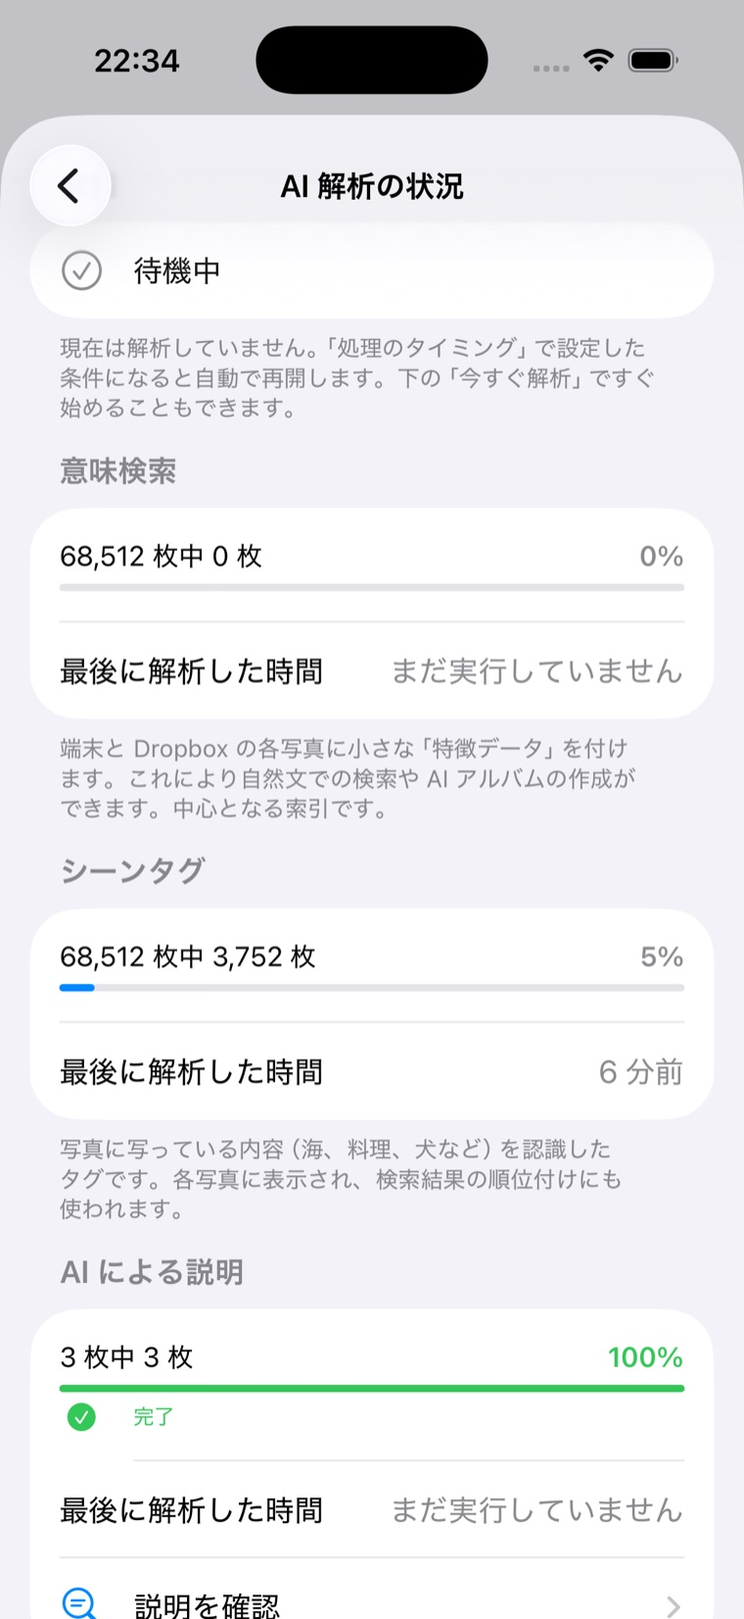
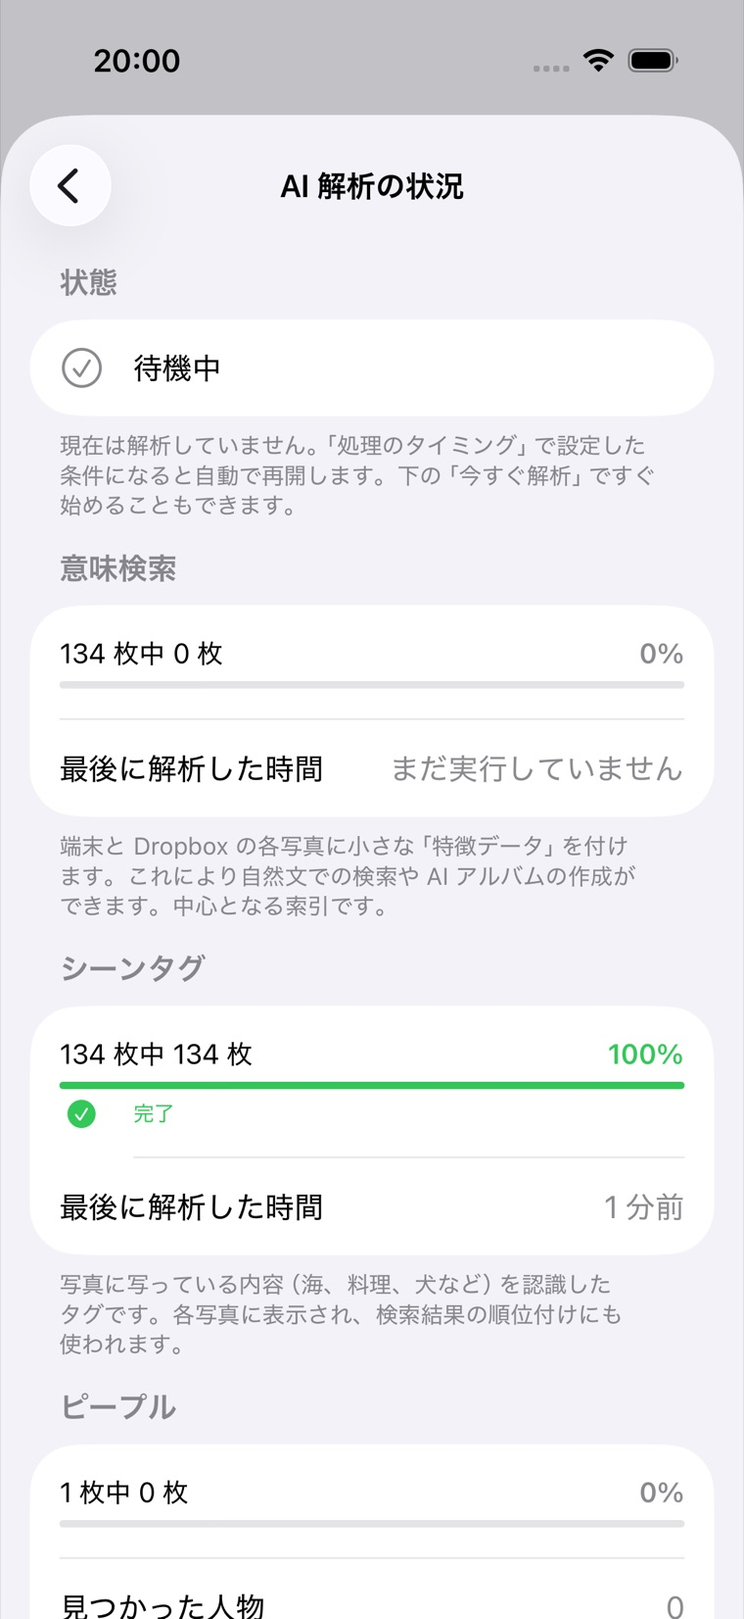
docs: マニュアル・README・リリースノート・スクリーンショットを現状へ
設計資料（6e2f542）に続いて、利用者向けの資料を ADR-199〜248 に追いつかせた。

■ マニュアル（docs/help/）

- settings.html  クラウド共有を 3 トグルへ（「写真の解析結果を共有」＝ADR-222・既定オフ・
                 1 台だけ・引き継ぎ）。Background & Battery に「充電をバックグラウンド処理より
                 優先」（既定オン）を追加
- （前コミットで people / faq / dropbox / settings の主要な欠落と誤りは修正済み）

■ README（両言語）

- ⚠ 誤りの修正: 旧 UI 名 `Run image analysis gently` → `Analyze while the app is open`、
  タイポ `analysis analysis data` → `analysis-only publishing`
- 追加: 解析結果だけの公開（ADR-222）／オフロードの緊急停止（ADR-202）／
  ピープルの表示フロア 10 枚（ADR-125）

■ リリースノート

- 1.16.md の訂正: 「この画面を開いている間、解析する」の 3 択は提出後に撤去済み（ADR-195）。
  該当文を削除し、冒頭に訂正の注記を付けた
- 1.17.md を新規作成（⚠ 原稿・未確定）。MARKETING_VERSION は 1.16 のまま触っていない
  ——バージョンを上げるかはリリース判断なので、文面だけ先に用意した

■ スクリーンショット

- ai-analysis.jpg を撮り直した。⚠ 旧画像は ADR-195/207 より前のもので、
  いまは存在しない 3 択ピッカーが写っていた
- 撮影対象に `05b-ai-analysis` を追加（それまで AI 解析の状況は撮っていなかった）
- ⚠ これで legacy（実写真入り）が 4 → 3 件に減った。状況画面は「待機中 / 意味検索 0%」の
  正直な状態がそのままヘルプに要る内容なので、解析完了は不要だった
- scripts/make_screenshot_sim.sh の不具合修正: `Index.noindex` 配下の .app を拾って
  "Missing bundle ID" で失敗していた。bundle ID が読める最初の候補を選ぶようにした

撮影は ADR-114 のパイプライン（使い捨てシミュレータ MosaicShots ＋ フリーライセンス素材 64 枚）で
行い、個人写真は 1 枚も含まれない。シミュレータは撮影後に削除済み。

検証: 全 html のタグ対応と画像参照を機械で確認（✅ 問題なし）。

diff --git a/docs/help/settings.html b/docs/help/settings.html
@@ -24,7 +24,7 @@
     <table>
       <tr><th>グループ</th><th>主な項目</th></tr>
       <tr><td>Photo Sources</td><td>端末の写真（On-Device Photos）/ Dropbox / バックアップ（Backup）</td></tr>
-      <tr><td>Albums &amp; Search（アルバムと検索）</td><td><b>AI 解析の状況</b>（進捗・今すぐ解析）/ <b>アルバム自動処理</b>（AI・旅行アルバム＋<b>AI 処理のタイミング</b>・背景処理の速度）/ <a href="./folder-albums.html">フォルダーアルバム</a> / <b>場所アルバムの設定</b> / <b>クラウド共有</b>（受け取る・提供する。→ <a href="./dropbox.html#cloud-share">くわしく</a>）</td></tr>
+      <tr><td>Albums &amp; Search（アルバムと検索）</td><td><b>AI 解析の状況</b>（進捗・今すぐ解析）/ <b>アルバム自動処理</b>（AI・旅行アルバム＋<b>AI 処理のタイミング</b>・背景処理の速度）/ <a href="./folder-albums.html">フォルダーアルバム</a> / <b>場所アルバムの設定</b> / <b>クラウド共有</b>（受け取る・提供する・<b>解析結果を公開する</b>。→ <a href="./dropbox.html#cloud-share">くわしく</a>）</td></tr>
       <tr><td>General</td><td>バージョン / 言語 / Background &amp; Battery / Photo Grid / Storage / Licenses / ヘルプ</td></tr>
       <tr><td>Developer Options</td><td>開発者向けの詳細診断（通常は不要）</td></tr>
     </table>
@@ -77,6 +77,7 @@
       <tr><td><b>アプリを開いている間も解析する</b></td><td>同上</td><td>オン / オフ</td><td><b>オン</b></td></tr>
       <tr><td>Power（電源）</td><td>設定 → 一般 → Background &amp; Battery</td><td>充電中のみ / 常に / オフ</td><td>充電中のみ</td></tr>
       <tr><td>Network（通信）</td><td>同上</td><td>Wi-Fi のみ / モバイル通信も / Wi-Fi（低データ除く）/ オフ</td><td>Wi-Fi のみ</td></tr>
+      <tr><td>充電をバックグラウンド処理より優先</td><td>同上</td><td>オン / オフ</td><td>オン</td></tr>
     </table>
 
     <h3>「アプリを開いている間も解析する」とは</h3>
@@ -143,6 +144,8 @@
     <ul>
       <li><b>Power（電源）</b>：<b>充電中のみ</b>（既定）/ 常に / オフ。「充電中のみ」は低電力モードが切れているときだけ動きます。</li>
       <li><b>Network（通信）</b>：モバイル通信も許可 / <b>Wi-Fi のみ</b>（既定）/ Wi-Fi（低データモードは除く）/ オフ。</li>
+      <li><b>充電をバックグラウンド処理より優先</b>（既定オン）：端末が熱いときは背景の処理を止めて、
+        <b>充電を優先</b>します。充電が遅いと感じるときはオンのまま、解析を急ぎたいときはオフにできます。</li>
     </ul>
     <div class="tip">いま<b>見ている・開いている写真は常に取得</b>されます（サムネイルの先読みを含む）。
       制限されるのは“自動の裏側の通信・処理”だけなので、閲覧が止まることはありません。</div>
@@ -166,8 +169,19 @@
 
     <h2>クラウド共有</h2>
     <p><b>設定 → アルバムと検索 → クラウド共有</b>（<b>設定 → Dropbox</b> からも同じ画面へ行けます）。
-      家族などと写真を分け合う機能で、<b>「受け取る」</b>と<b>「提供する」</b>はそれぞれ独立したトグルです
-      （バックアップとも独立しています）。くわしくは <a href="./dropbox.html#cloud-share">クラウド共有</a>。</p>
+      <b>3 つのトグルがそれぞれ独立</b>しています（バックアップとも独立）。
+      くわしくは <a href="./dropbox.html#cloud-share">クラウド共有</a>。</p>
+    <ul>
+      <li><b>共有アルバムを受け取る</b> — 相手が共有してくれたフォルダを登録します。</li>
+      <li><b>自分の写真を共有する</b> — アルバム・人物・ピープルグループから共有セットを作ります。
+        <b>「人物名も共有する」</b>を併せて選べます。</li>
+      <li><b>写真の解析結果を共有</b>（⚠ <b>既定オフ</b>）— 同じ Dropbox を使う<b>別の端末</b>へ、
+        写真をコピーせず<b>解析結果だけ</b>を公開します。共有フォルダの登録は要りません。
+        <b>「今すぐ公開」</b>で待たずに出せます。
+        <br>⚠ <b>オンにするのは 1 台だけ</b>にしてください（2 台だと同じものに二重の容量がかかります）。
+        別の端末が公開中なら警告と端末名が出て、<b>「この端末で公開する」</b>で引き継げます。</li>
+    </ul>
+    <p>受け取り側には <b>「共有された解析を今すぐ取り込む」</b>もあります。</p>
 
     <h2>その他</h2>
     <ul>

diff --git a/MosaicPhotosUITests/ScreenshotCaptureTests.swift b/MosaicPhotosUITests/ScreenshotCaptureTests.swift
@@ -94,6 +94,20 @@ final class ScreenshotCaptureTests: XCTestCase {
         if tapFirst(["設定", "Settings"], timeout: 5) {
             sleep(4)
             capture("05-settings")
+            // 4-b. AI 解析の状況（ADR-207 以降・トグル 2 つ＋残りの内訳）。
+            // ⚠ help/ai-search.html が参照する画面。3 択ピッカーの頃の画像が残っていたので
+            //    撮影対象に足した（それまでは撮っていなかった）。
+            if tapFirst(["アルバムと検索", "Albums & Search"], timeout: 4) {
+                sleep(2)
+                if tapFirst(["AI 解析の状況", "AI Analysis Status"], timeout: 4) {
+                    sleep(4)
+                    capture("05b-ai-analysis")
+                    tapFirst(["Back", "戻る"], timeout: 3)
+                    sleep(1)
+                }
+                tapFirst(["Back", "戻る"], timeout: 3)
+                sleep(1)
+            }
             // シートを閉じる（左上の戻る）。
             tapFirst(["Back", "戻る"], timeout: 3)
             sleep(2)

diff --git a/README.ja.md b/README.ja.md
@@ -88,7 +88,7 @@
 
 - **すべての写真** — 端末と Dropbox の写真を 1 本の時系列タイムラインに統合。
 - **どこでもフィルター** — すべてのグリッド（ソース・アルバム・ピープル・場所・AI アルバム）の下部バーにフィルターボタン。**お気に入りのみ**、混在ビューでは**端末のみ／クラウドのみ**にも絞れます。全画面のスワイプ送りも絞り込み後の並びで進みます。
-- **ピープル** — 顔の検出とクラスタリングは**完全オンデバイス**：Vision 顔検出＋同梱顔モデル（**AuraFace-v1**・Apache 2.0・ArcFace 系 ResNet100・512 次元の identity 埋め込み・5 点整列）で「人物」を自動生成します（iOS に公開のピープル API は無いため独自実装・通信なし）。**端末と Dropbox の両方**が対象です（クラウドはキャッシュ済みサムネイルから検出＝追加ダウンロードなし）。認識精度は**データセット計測で調整**しており（`docs/architecture-note/records/face-accuracy.md`）、ぼやけ・横顔・暗所・小さすぎる顔・顔でないものを弾く多段ゲート、目の位置を揃えるアライメント、複数クロップ平均、紛らわしい顔を吸い込まないマージン制御で、別人が混ざる率を大きく下げています。ホームの丸アイコンから、タップで写真一覧（端末＋クラウド）、長押しで名前変更・代表写真・顔の管理・**別の人物と束ねる**。人物アルバムの**顔ハイライト**（下部バーの顔ボタン）で、認識した顔をサムネ・全画面に黄枠表示——複数人の写真でもどの顔かが分かります。**同じ人が複数に分かれたとき**（特に**成長した子供**）は 2 つ以上のグループを **1 人として束ねられます**（各グループの純度は保ったまま・撮影日で時期をまとめるので年齢推定は不要・後で解除可）。名前を付けた人物は AI アルバムの人物条件に接地します——「太郎と花子」で山田太郎・山田花子がヒットし、照合は**現在の人物でライブ評価**なので改名・束ねも即反映。顔モデル未同梱の構成ではセクション非表示。さらに、**複数の人物を家族名やチーム名で束ねる『ピープルグループ』**も作れます（別人どうしをまとめる表示上のまとまりで、顔の認識結果自体は変わりません。カルーセル先頭に 2×2 の顔コラージュカードで表示され、タップで全員の写真、長押しで編集・クラウド共有）。
+- **ピープル** — 顔の検出とクラスタリングは**完全オンデバイス**：Vision 顔検出＋同梱顔モデル（**AuraFace-v1**・Apache 2.0・ArcFace 系 ResNet100・512 次元の identity 埋め込み・5 点整列）で「人物」を自動生成します（iOS に公開のピープル API は無いため独自実装・通信なし）。**端末と Dropbox の両方**が対象です（クラウドはキャッシュ済みサムネイルから検出＝追加ダウンロードなし）。認識精度は**データセット計測で調整**しており（`docs/architecture-note/records/face-accuracy.md`）、ぼやけ・横顔・暗所・小さすぎる顔・顔でないものを弾く多段ゲート、目の位置を揃えるアライメント、複数クロップ平均、紛らわしい顔を吸い込まないマージン制御で、別人が混ざる率を大きく下げています。ホームの丸アイコンから、タップで写真一覧（端末＋クラウド）、長押しで名前変更・代表写真・顔の管理・**別の人物と束ねる**。人物アルバムの**顔ハイライト**（下部バーの顔ボタン）で、認識した顔をサムネ・全画面に黄枠表示——複数人の写真でもどの顔かが分かります。**同じ人が複数に分かれたとき**（特に**成長した子供**）は 2 つ以上のグループを **1 人として束ねられます**（各グループの純度は保ったまま・撮影日で時期をまとめるので年齢推定は不要・後で解除可）。名前を付けた人物は AI アルバムの人物条件に接地します——「太郎と花子」で山田太郎・山田花子がヒットし、照合は**現在の人物でライブ評価**なので改名・束ねも即反映。顔モデル未同梱の構成ではセクション非表示。⚠ 自動で一覧に出るのは**10 枚以上に写っている人**だけです（写り込んだだけの人でカルーセルが埋まらないように）。**名前を付けた人は枚数に関係なく必ず出ます**し、「すべて表示」の右上から最小枚数を 3 / 5 / 10 / 20 枚に変えられます。さらに、**複数の人物を家族名やチーム名で束ねる『ピープルグループ』**も作れます（別人どうしをまとめる表示上のまとまりで、顔の認識結果自体は変わりません。カルーセル先頭に 2×2 の顔コラージュカードで表示され、タップで全員の写真、長押しで編集・クラウド共有）。
 - **旅行** — 撮影日時と位置から旅行を自動検出（複数日・複数都市の旅行は 1 つのアルバムに）。タイトルとカバーも自動。
 - **AI アルバム & 意味検索** — 自然文・**任意の言語**でアルバムを記述（例:「走っている子供」「京都か奈良の家族のお気に入り、スクショ除く」）。作成画面が入力を支援：ライブラリ由来の**サジェストチップ**（命名済み人物・頻出の場所・よく写るもの・日付の定型＝すべて確実にヒットする語）、入力の**接地プレビュー**（人物／場所／視覚語／日付にどう解釈されたかを色付きチップで表示）、ハード条件の**ヒット件数**のライブ表示。作成は **2 段階**：決定的**プレビュー**が 1〜2 秒で出て、そのまま**その場で本確定**（十数秒）——オンデバイス LLM（Apple Foundation Models）が**一度だけ**解釈して永続化し、**言い換えプローブ**（max-over-probes 採点で言い回しの取りこぼしを回収）を生成、**閾値レスの多層パイプライン**（校正済み**シーンタグ**一致＋**CLIP 対比**＋字句一致の RRF 融合 → **証拠ゲート** → **LLM 審査**・多数決）で照合します。「バレエの◯◯」のような人物×内容の複合は厳密な AND（ハード条件に接地済みの名前は内容照合から除外）。「人が写っていない」のような除外は**顔検出の実測**とタグ・CLIP を併用。**端末と Dropbox の両方**が対象。検索品質は**データセット計測**で決めます——COCO/Caltech の 123 クエリハーネス＋カテゴリ別回帰フロア（`docs/architecture-note/records/search-quality.md`）。
 - **オンデバイス画像理解** — 写真は背景で**新しいものから先に**、2 パスで索引付けされます：**シーンタグ**（OS 内蔵 Vision・約 1,300 クラス・精度校正済み）と **CLIP 埋め込み**（OpenCLIP ViT-B-32・**INT8 量子化＝精度そのまま半分のサイズ**）を**全写真**へ。（VLM 説明文は 1.15 で廃止——網羅率アブレーションで検索寄与ゼロを計測し、最重量パスとモデル 877MB を削減。ADR-108）進捗は**設定 → AI 解析の状況**で確認できます（パス別進捗・最終実行時刻・「今すぐ解析」）。重い処理は既定で**充電中・Wi-Fi・非使用時（ロック中含む・BGProcessingTask）**のみ実行されます（下記の 4 軸設定）。外部 API なし・通信なし（OCR も OS 内蔵 Vision で端末内実行）。
@@ -96,8 +96,9 @@
 - **クラウド** — Dropbox の写真閲覧。差分同期で常に最新、サムネイル（256px）と本体はローカルにキャッシュ。
 - **アルバム** — 端末のユーザー作成アルバム（独立にスキャン・キャッシュ）。
 - **場所** — **オンデバイス逆ジオコーディング**で市区町村ごとにグループ化。端末と Dropbox の位置情報つき写真を統合し、位置データが増えるほど自動で育ちます。
-- **バックアップ — 検証つき・自動・家族共有対応** — 端末写真を Dropbox へ**内容ハッシュ検証つき**でバックアップ：アップロード後に Dropbox 側のバイト列一致を確認できたものだけ「済み」になります（同名衝突も同じ仕組みで検出し自動リネーム）。AI 索引と同じ**夜間ウィンドウ（充電＋Wi-Fi＋未使用時）に自動実行**され、設定に**「バックアップ済み X / Y」**、全画面表示に写真ごとのバッジを表示。保存先は**端末ごとのサブフォルダ**（例 `iPhone-3F2A8C`）なので、家族で 1 つの Dropbox を共有しても衝突しません。アルバム所属・お気に入り・人物名・GPS・localIdentifier（ローカル⇔クラウド対応表）も写真とともに保全——再インストールや将来の**オフロード**（端末容量の解放。検証つきのドライランプレビュー画面を先行搭載）に備えます。
+- **バックアップ — 検証つき・自動・家族共有対応** — 端末写真を Dropbox へ**内容ハッシュ検証つき**でバックアップ：アップロード後に Dropbox 側のバイト列一致を確認できたものだけ「済み」になります（同名衝突も同じ仕組みで検出し自動リネーム）。AI 索引と同じ**夜間ウィンドウ（充電＋Wi-Fi＋未使用時）に自動実行**され、設定に**「バックアップ済み X / Y」**、全画面表示に写真ごとのバッジを表示。保存先は**端末ごとのサブフォルダ**（例 `iPhone-3F2A8C`）なので、家族で 1 つの Dropbox を共有しても衝突しません。アルバム所属・お気に入り・人物名・GPS・localIdentifier（ローカル⇔クラウド対応表）も写真とともに保全——再インストールや将来の**オフロード**（端末容量の解放。検証つきのドライランプレビュー画面を先行搭載）に備えます。⚠ **唯一のコピーが失われたら、止めてから知らせます**：オフロード済みの写真が Dropbox 上で見つからなくなったら自動オフロードを停止し、写真一覧の上に赤い帯を出し、影響を受けたファイルを確認するまで設定を変更できないようにします（確認しても**自動では再開しません**）。
 - **クラウド共有 — 選んだ写真だけを、解析ごと分け合う** — アルバム・人物・ピープルグループの「…」から**クラウド共有**でセットを作ると、選んだ写真が Dropbox の共有フォルダへ**サーバー上でコピー**されます（写真データの再アップロードは発生せず、**原本とバックアップには一切触れません**）。相手が MosaicPhotos を使っていれば、**AI 解析（シーンタグ・CLIP 埋め込み・顔）も一緒に届く**ので、受け取った端末で解析し直す必要がありません——共有された子供の写真が、相手の端末の命名済み人物アルバムへ自動で合流します（結合キーは端末に依存しない `content_hash`）。**「受け取る」「提供する」「バックアップ」は独立した設定**で、受け取るだけなら Dropbox 接続だけで動きます（端末写真の提供のみバックアップが前提）。共有フォルダを誰に見せるかは Dropbox 側の操作（閲覧のみ招待を推奨）。
+- **解析結果だけを公開 — 写真は 1 枚もコピーしない** — 家族で**同じ Dropbox アカウント**を使っているなら、写真はすでに全員が見えています。足りないのは解析だけなので、**設定 → アルバムと検索 → クラウド共有 → 「写真の解析結果を共有」**（⚠ **既定オフ**）をオンにすると、この端末が**解析結果だけ**（シーンタグ・検索の索引・顔・人物名）を `<root>/<端末>/Analysis/` へ置きます。**写真は 1 枚もコピーされず**、受け取る側は共有フォルダの登録も不要で、同じライブラリを二度と解析し直しません。⚠ **オンにするのは 1 台だけ**（2 台だと同じものに二重の容量がかかります）。別の端末が公開中なら端末名と最終公開日時を見せ、**引き継ぎ**を促します。
 
 - **バックグラウンド・電池・通信** — 2 つの独立した設定で電池と通信量を管理します。
   - **処理のタイミング**（設定 → アルバムと検索 → アルバム自動処理）：重い AI 処理（シーンタグ・CLIP 埋め込み・顔スキャン・アルバム生成）を動かす条件。段階（梯子）ではなく**独立した設定の組み合わせ**で、「自動で解析する」（オン/オフ）と、Background & Battery の電源・通信。アプリを閉じている間（ロック中）に進むほか、**アプリを開いたままでも 20 秒触らなければ進み**、触れば即譲ります（設定不要）。処理の**速さ**は別に 4 段階（とても控えめ／控えめ〈既定〉／バランス／高速）。低電力モード・メモリ逼迫時は常に停止します。
@@ -122,7 +123,7 @@ MosaicPhotos (app)
 ├── DropboxKit        Dropbox の UI 層（DropboxCore に依存）
 ├── BackupKit         端末→Dropbox バックアップ：検証つきアップロード（content hash）・夜間自動・
 │                     端末別フォルダ・オフロード台帳＋プレビュー／
-│                     クラウド共有（共有セット・サーバーサイドコピー・解析データ）
+│                     クラウド共有（共有セット・サーバーサイドコピー・解析結果だけの公開）
 ├── PhotosFeatureKit  ローカル＋Dropbox の統合（MergedPhotoStore）と場所グルーピング
 ├── FaceCore          顔認識・ピープル（検出ゲート・クラスタリング・ピープルグループ）
 ├── AutoAlbumCore     自動アルバム＋オンデバイス AI ロジック（SwiftUI 非依存）：旅行・フォルダ名アルバム・

diff --git a/README.md b/README.md
@@ -88,7 +88,7 @@
 
 - **All Photos** — Your device and Dropbox photos merged into one chronological timeline.
 - **Filters everywhere** — Every grid (sources, albums, People, Places, AI albums) has a filter button in the bottom bar: show **favorites only**, and on mixed views restrict to **device-only or cloud-only** photos. Full-screen swiping follows the filtered set.
-- **People** — Faces are detected and clustered **entirely on device**: Vision face detection plus a bundled face model (**AuraFace-v1**, Apache 2.0, ArcFace-family ResNet100, 512-dim identity embeddings, 5-point alignment) groups faces into people — iOS exposes no public “People” API, so the clusters are the app's own, built with no network access. Covers **both device and Dropbox photos** (cloud faces are detected from cached thumbnails — no extra downloads). Accuracy is tuned against labelled datasets (`docs/architecture-note/records/face-accuracy.md`): multi-stage gates reject blurry, profile, dark, too-small and non-face crops; eye-alignment and multi-crop averaging stabilize embeddings; margin control avoids pulling in ambiguous faces — sharply lowering how often different people mix. Home shows a circular-avatar carousel: tap a person to browse their photos (device + cloud), long-press to rename, choose a cover, fix mis-assigned faces, or **group people together**. A **face-highlight** toggle in the person album's bottom bar draws a yellow box around the recognized faces (in thumbnails and full screen) so you can tell which face is which in group shots. When the same person gets split into several groups — common for a **growing child** — you can **group them into one person** (each group keeps its purity; periods are separated by capture date so no age estimation is needed; reversible later). Named people ground people conditions in AI albums — “Taro and Hanako” finds 山田太郎 and 山田花子, evaluated live so renames and grouping apply immediately. The section is hidden when the face model isn't bundled. You can also bundle several people into a **people group** (a family, a team) — a display-level grouping of *different* people (it never changes the face clustering itself), shown as a 2×2 face collage card at the head of the carousel; tap for everyone's photos, long-press to edit or cloud-share.
+- **People** — Faces are detected and clustered **entirely on device**: Vision face detection plus a bundled face model (**AuraFace-v1**, Apache 2.0, ArcFace-family ResNet100, 512-dim identity embeddings, 5-point alignment) groups faces into people — iOS exposes no public “People” API, so the clusters are the app's own, built with no network access. Covers **both device and Dropbox photos** (cloud faces are detected from cached thumbnails — no extra downloads). Accuracy is tuned against labelled datasets (`docs/architecture-note/records/face-accuracy.md`): multi-stage gates reject blurry, profile, dark, too-small and non-face crops; eye-alignment and multi-crop averaging stabilize embeddings; margin control avoids pulling in ambiguous faces — sharply lowering how often different people mix. Home shows a circular-avatar carousel: tap a person to browse their photos (device + cloud), long-press to rename, choose a cover, fix mis-assigned faces, or **group people together**. A **face-highlight** toggle in the person album's bottom bar draws a yellow box around the recognized faces (in thumbnails and full screen) so you can tell which face is which in group shots. When the same person gets split into several groups — common for a **growing child** — you can **group them into one person** (each group keeps its purity; periods are separated by capture date so no age estimation is needed; reversible later). Named people ground people conditions in AI albums — “Taro and Hanako” finds 山田太郎 and 山田花子, evaluated live so renames and grouping apply immediately. The section is hidden when the face model isn't bundled. ⚠ Only people appearing in **10 or more photos** are listed automatically (so the carousel is not filled with passers-by); **anyone you have named always shows**, and *Show All* has a picker to lower the floor to 3 / 5 / 10 / 20. You can also bundle several people into a **people group** (a family, a team) — a display-level grouping of *different* people (it never changes the face clustering itself), shown as a 2×2 face collage card at the head of the carousel; tap for everyone's photos, long-press to edit or cloud-share.
 - **Trips** — Trips are detected automatically from capture time and location (multi-day, multi-city trips become a single album), with smart titles and covers.
 - **AI Albums & semantic search** — Describe an album in natural language, in **any language** (e.g. “走っている子供” / “a running child”, or “Kyoto or Nara family favorites, no screenshots”). The composer helps you write queries that hit: **suggestion chips** built from your library (named people, frequent places, frequently-seen subjects, date phrases — all guaranteed to match), a **live interpretation preview** (colored chips showing how your words ground to people / places / visual words / dates), and a **live count** of photos matching the hard conditions. Creation is **two-stage**: a deterministic **preview** appears within a second or two (lexicon + date + tag matching, no LLM), then the album is **finalized on the spot** (a dozen-odd seconds) — the request is interpreted **once** by the on-device LLM (Apple Foundation Models, persisted; deterministic parsers ground dates, places, people names and common visual words), expanded with **paraphrase probes** (max-over-probes scoring recovers rephrasings the main query would miss), and matched by a **layered, threshold-free pipeline**: calibrated **scene tags** + **CLIP contrast** + lexical match fused with Reciprocal Rank Fusion, an **evidence gate**, and a final **LLM review** with majority voting. A person × subject query (“ballet photos of Taro”) is a strict AND — a name already grounded as a hard condition is excluded from content matching. Exclusions like “without people” combine real **face detection counts** with tag and CLIP evidence. Works across **both device and Dropbox** photos. Search quality is decided by **dataset measurement**: a 123-query COCO/Caltech harness plus per-category regression floors (see `docs/architecture-note/records/search-quality.md`).
 - **On-device image understanding** — Photos are indexed in the background, **newest photos first**, in two passes: **scene tags** (built-in Vision classifier, ~1,300 classes, precision-calibrated) and **CLIP embeddings** (OpenCLIP ViT-B-32, INT8-quantized — half the size at equal accuracy) for **all** photos. (VLM captions were removed in 1.15 after an ablation measured **zero contribution** to retrieval — the heaviest pass and 877 MB of model weight bought nothing; see ADR-108.) Progress is visible in **Settings → AI Analysis Status** (per-pass progress, last-run times, and an *Analyze Now* button). By default, heavy work runs **only while the phone is charging, on Wi-Fi, and not in use** — including while locked (BGProcessingTask); the conditions are user-configurable (see below). No third-party vision API, no network (OCR uses the built-in Vision framework).
@@ -96,11 +96,12 @@
 - **Cloud** — Browse Dropbox photos. Background delta sync keeps the list fresh; thumbnails (256 px) and originals are cached locally.
 - **Albums** — Your user-created device albums, scanned and cached independently.
 - **Places** — Photos grouped by city using **on-device reverse geocoding**, combining located photos from both the device and Dropbox. Grows automatically as more location data arrives.
-- **Backup — verified, automatic, family-friendly** — Back up device photos to Dropbox with **content-hash verification**: a photo is only marked “backed up” after Dropbox confirms the uploaded bytes match (name collisions are detected the same way and auto-renamed). Runs **automatically at night** alongside the AI indexing (charging + Wi-Fi + not in use), with a **“Backed up X / Y”** status in Settings and a per-photo badge in the full-screen view. Each device backs up into its **own subfolder** (e.g. `iPhone-3F2A8C`), so a family sharing one Dropbox account never collides. Preserved alongside each photo: albums, favorites, people names, GPS and the local-identifier mapping — everything needed to survive a reinstall or a future device-storage **offload** (a verified, dry-run-first preview screen already ships).
+- **Backup — verified, automatic, family-friendly** — Back up device photos to Dropbox with **content-hash verification**: a photo is only marked “backed up” after Dropbox confirms the uploaded bytes match (name collisions are detected the same way and auto-renamed). Runs **automatically at night** alongside the AI indexing (charging + Wi-Fi + not in use), with a **“Backed up X / Y”** status in Settings and a per-photo badge in the full-screen view. Each device backs up into its **own subfolder** (e.g. `iPhone-3F2A8C`), so a family sharing one Dropbox account never collides. Preserved alongside each photo: albums, favorites, people names, GPS and the local-identifier mapping — everything needed to survive a reinstall or a future device-storage **offload** (a verified, dry-run-first preview screen already ships). ⚠ **If the only remaining copy goes missing, the app stops first and then tells you**: when a photo it already offloaded can no longer be found in Dropbox, automatic offload is halted, a red banner appears above the photo grid, and the setting stays locked until you acknowledge the list of affected files — and it does **not** resume on its own.
 - **Cloud Sharing — share selected photos, analysis included** — Create a shared set from any album, person or people group and the photos are **copied server-side inside Dropbox** into a shared folder (no photo data is re-uploaded, and **your originals and backup are never touched**). If the other side also runs MosaicPhotos, the **AI analysis travels with the photos** (scene tags, CLIP embeddings, faces) so their device never re-analyzes them — shared photos of your child merge straight into the person album they already named (the join key is `content_hash`, which is device-independent). **Receiving, providing and backup are independent settings**: receiving needs nothing but a Dropbox connection (only *providing device photos* requires backup, since sharing copies from the backed-up copy). Who can see the folder is decided in the Dropbox app itself (view-only invites recommended).
+- **Analysis-only publishing — share the work, not the files** — If your family shares **one Dropbox account**, the photos are already visible to everyone; what is missing is the analysis. Turn on *Share photo analysis* (Settings → Albums & Search → Cloud Sharing, **off by default**) and this device publishes **only the analysis** (scene tags, search index, faces, person names) under `<root>/<device>/Analysis/`. **Not a single photo is copied**, and the receiving devices need no folder registration — they pick it up automatically and never re-analyze the same library. ⚠ **Turn it on for one device only**: two publishers pay double the storage for the same thing. If another device is already publishing, the app names it (device + last publish time) and offers to **take over**.
 
 - **Background work, battery & data** — Two independent controls keep battery and cellular data in check.
-  - **Processing Timing** (Settings → Albums & Search → Album Automation) decides **when the heavy AI work runs** (scene tags, CLIP embeddings, face scanning, album generation). It is not a ladder but a set of independent switches: *Analyze automatically* (on/off) and *Run image analysis gently* (**default on** — nothing runs while you are using the app). Processing **speed** is a separate 4-step setting (Very Gentle / Gentle (default) / Balanced / Fast). Low Power Mode and memory pressure always pause the work.
+  - **Processing Timing** (Settings → Albums & Search → Album Automation) decides **when the heavy AI work runs** (scene tags, CLIP embeddings, face scanning, album generation). It is not a ladder but a set of independent switches: *Analyze automatically* (on/off) and *Analyze while the app is open* (**default on** — it waits 20 seconds of inactivity, so nothing competes with what you are doing). Processing **speed** is a separate 4-step setting (Very Gentle / Gentle (default) / Balanced / Fast). Low Power Mode and memory pressure always pause the work.
   - **Background & Battery** (Settings → General) is the app-wide policy for the remaining continuous/periodic background work (Dropbox sync, backup, scanning): **power** (While charging / Always / Off — default *While charging*) and **network** (Cellular allowed / Wi-Fi only / Wi-Fi, skip Low Data / Off — default *Wi-Fi only*). Photos you open or browse are always fetched — only automatic background traffic is limited. An optional top-of-screen **activity bar** visualizes power/network state and live background/Dropbox activity.
 - **Built for large libraries** — Designed for tens of thousands of photos: metadata and image vectors are paged and stored compactly (Float16). Under memory pressure the app records diagnostics and **proactively frees image caches** to stay stable instead of crashing.
 
@@ -122,7 +123,7 @@ MosaicPhotos (app)
 ├── DropboxKit        Dropbox UI layer (depends on DropboxCore)
 ├── BackupKit         device → Dropbox backup: verified uploads (content hash), nightly
 │                     auto-run, per-device folders, offload ledger + preview;
-│                     cloud sharing (shared sets, server-side copy, analysis analysis data)
+│                     cloud sharing (shared sets, server-side copy, analysis-only publishing)
 ├── PhotosFeatureKit  merges local + Dropbox (MergedPhotoStore) and place grouping
 ├── FaceCore          face recognition & People (detection gates, clustering, people groups)
 ├── AutoAlbumCore     auto albums + on-device AI logic (SwiftUI-free): trips, folder-name

diff --git a/docs/release-notes/1.17.md b/docs/release-notes/1.17.md
@@ -1,0 +1,116 @@
+# App Store リリースノート — v1.17（⚠ 原稿・未確定）
+
+> ⚠ **このファイルは原稿で、まだリリースしていません。**
+> 2026-10-02 時点で `MARKETING_VERSION` は **1.16** のまま（`CURRENT_PROJECT_VERSION` は 1）。
+> v1.16 のタグ（2026-09-09）以降に **168 コミット・ADR-199〜248** が積まれているので、
+> 次の提出に向けて文面を先に用意した。
+> **バージョンを上げるかどうかはリリース判断なので、このファイルでは触っていない。**
+> 提出時に `README.md` の手順（§0 事前確認）で `MARKETING_VERSION` /
+> `CURRENT_PROJECT_VERSION` を上げてから使うこと。
+
+App Store Connect の「このバージョンの新機能（What's New in This Version）」へ投入する原稿。
+
+- **日本語（`ja`）** … 日本の App Store 向け
+- **英語（`en-US`）** … 日本以外（既定言語）向け
+
+> 運用: 日本語版が原文。英語版は訳だが、直訳ではなく英語として自然な言い回しにする。
+> App Store の文字数上限は 4,000 文字。機能名は**アプリの実際の表示名**と一致させること。
+
+---
+
+## 日本語（ja）
+
+```
+同じ Dropbox を使う家族のために「解析結果だけを共有」を追加しました。あわせて、夜間の解析が止まりにくくなり、人物認識とクラウド写真の日付も正確になっています。
+
+■ クラウド共有：解析結果だけを共有（新機能）
+・家族で同じ Dropbox を使っている場合、写真を 1 枚もコピーせず「解析結果だけ」を共有できるようになりました。同じ写真を端末ごとに何日もかけて解析し直す必要がなくなります。
+・設定 → アルバムと検索 → クラウド共有 →「写真の解析結果を共有」をオンにしてください（既定はオフ）。「今すぐ公開」で待たずに出せます。
+・受け取る側は何もしなくてよく、共有フォルダの登録も要りません。
+・オンにするのは 1 台だけにしてください。別の端末が公開しているときは端末名を表示し、「この端末で公開する」で引き継げます。
+
+■ バックアップとオフロードの安全策
+・オフロード済みの写真が Dropbox 上で見つからなくなったときに、自動オフロードを停止してお知らせするようになりました。写真一覧の上に帯が出て、どのファイルが対象かを確認できます。
+・Dropbox 側で写真が移動・削除された場合に「ファイルがありません」が残り続ける問題を解消しました。アプリが自分で気づいて一覧から外します。
+・Dropbox に入れた新しい写真がいつまでも出てこないことがある問題を解消しました。自動で立ち直ります。
+
+■ クラウド写真の日付
+・クラウド写真の撮影日は、写真に埋め込まれた撮影日時だけを使うようにしました。Dropbox へアップロードした日時を撮影日として使うことはなくなり、並び順が正確になります。
+・撮影日時は裏で少しずつ調べるので、枚数が多い場合は数日かけて埋まっていきます。
+
+■ ピープル（人物）
+・夜のあいだに人物全体を見直して組み直すようになり、同じ人が分かれにくくなりました。
+・名前・束ね・ピープルグループの所属は、組み直しや再スキャンでも引き継がれます。
+・写りの悪い顔も拾うようにしたので、見つかる人が増えています。一覧が埋まらないよう、自動で出るのは 10 枚以上に写っている人だけです（名前を付けた人は枚数に関係なく出ます。「すべて表示」から最小枚数を変えられます）。
+・代表写真の選び方を見直し、その人らしい顔が選ばれやすくなりました。
+
+■ 解析の進み方
+・「すべて解析済みです」と表示が出る条件を正しくしました。残りがあるのに完了と出ることがなくなり、残っているときは「まだ解析していない写真があります」と出ます。
+・AI 解析の状況で、見つかった人物・検出した顔・検索の索引の残りも確認できるようになりました。
+・メモリの使い方を大きく見直し、夜間の処理が途中で止まりにくくなりました。
+・起動直後から写真のタグが表示されるようになりました。
+
+■ その他の改善
+・大量の写真があるときの一覧表示と起動を高速化しました。
+・設定に「充電をバックグラウンド処理より優先」を追加しました（既定オン）。
+・人物アルバムの枚数が英語で表示されていた問題を修正しました。
+```
+
+---
+
+## 英語（en-US）
+
+```
+Analysis-only sharing arrives for families on one Dropbox account. Nightly analysis is far less likely to stall, and both face grouping and cloud photo dates are more accurate.
+
+■ Cloud Sharing: share the analysis, not the files (new)
+• If your family shares one Dropbox account, you can now share only the analysis — no photos are copied. Each device no longer spends days re-analyzing the same library.
+• Turn on Settings → Albums & Search → Cloud Sharing → “Share photo analysis” (off by default). Use “Publish now” if you don't want to wait.
+• Receiving devices need no setup at all, not even a shared folder.
+• Turn it on for one device only. If another device is already publishing, the app shows which one and offers to take over.
+
+■ Backup and offload safeguards
+• If a photo you already offloaded can no longer be found in Dropbox, automatic offload now stops and tells you, with a banner above your photos and a list of the affected files.
+• Fixed cloud photos that stayed in the grid but failed to open after being moved or deleted in Dropbox. The app now notices and removes them.
+• Fixed new Dropbox photos sometimes never appearing. Syncing now recovers on its own.
+
+■ Cloud photo dates
+• Cloud photos now use only the capture date embedded in the photo. The Dropbox upload time is never used as a capture date, so ordering is correct.
+• Capture dates are looked up gradually in the background, so a large library fills in over a few days.
+
+■ People
+• People are now re-grouped as a whole overnight, so the same person splits less often.
+• Names, grouped people and people-group membership are carried over through re-grouping and full rescans.
+• Lower-quality faces are now included, so more people are found. To keep the carousel readable, only people in 10 or more photos are listed automatically (anyone you have named always appears, and you can change the minimum from Show All).
+• Cover photos are chosen more representatively.
+
+■ Analysis progress
+• “Everything is analyzed” now appears only when it is true. When work remains you will see “Some photos are not analyzed yet.”
+• The AI analysis screen now also shows people found, faces detected and remaining search index items.
+• Memory use was reworked substantially, so nightly processing is much less likely to be cut short.
+• Photo tags now appear right after launch.
+
+■ Other improvements
+• Faster grid rendering and launch with very large libraries.
+• New setting: “Prioritize charging over background work” (on by default).
+• Fixed photo counts in person albums appearing in English.
+```
+
+---
+
+## この版の主な設計判断（社内向け・提出しない）
+
+| 領域 | ADR |
+|---|---|
+| 解析結果だけの公開 | ADR-222 |
+| 共有の反映を「望ましい姿との差分」へ | ADR-209 |
+| 共有アルバムの並びは撮影日順 | ADR-199 |
+| オフロードの緊急停止 | ADR-202・200 |
+| 同期の自己修復（`path/not_found`・カーソル失効） | ADR-205・203・206 |
+| クラウド写真の撮影日は EXIF だけ | ADR-218・201 |
+| 夜間の再クラスタ（平均連結）と品質の線 | ADR-217・220・221・214 |
+| 表明の持ち越しと監査 | ADR-231・232・233・235・238・242 |
+| 解析の完了判定 | ADR-207 |
+| 常駐メモリの棚卸し（1061 → 505MB） | ADR-223・226・227・228・229・236・237・246・247 |
+| 空回りの停止 | ADR-239・240・243 |
+| テストの規律 | ADR-241・244・245・248 |

diff --git a/docs/release-notes/1.16.md b/docs/release-notes/1.16.md
@@ -1,5 +1,9 @@
 # App Store リリースノート — v1.16
 
+> ⚠ **2026-10-02 訂正**: 「この画面を開いている間、解析する」の 3 択は、提出後に
+> **撤去済み**（ADR-195。いまはトグル「アプリを離れても解析を続ける」のみ）。
+> 提出済みの文言は変えられないので、ここから該当文を削除して記録を実装に合わせた。
+
 App Store Connect の「このバージョンの新機能（What's New in This Version）」へ投入する原稿。
 
 - **日本語（`ja`）** … 日本の App Store 向け
@@ -32,7 +36,7 @@ App Store Connect の「このバージョンの新機能（What's New in This V
 ・人物アルバムの中身が別人に入れ替わることがある不具合を修正しました。
 
 ■ 解析とバックアップ
-・「今すぐ解析（充電中）」を追加しました。画面を消しても解析が続き、進み具合が通知に出ます。「この画面を開いている間、解析する」も選べます。
+・「今すぐ解析（充電中）」を追加しました。画面を消しても解析が続き、進み具合が通知に出ます。
 ・端末が熱くなったら解析を止めます（満充電なら継続）。「充電をバックグラウンド処理より優先」で挙動を選べます。
 ・Dropbox へのバックアップは撮影年月のフォルダに整理され、夜間もアプリを閉じたまま進むようになりました。
 
@@ -69,7 +73,7 @@ People
 • Fixed an issue where a person’s album could be replaced by someone else’s photos.
 
 Analysis & Backup
-• Added “Analyze Now (while charging)”. Analysis keeps going with the screen off, and progress appears in a Live Activity. You can also choose “Analyze While This Screen Is Open”.
+• Added “Analyze Now (while charging)”. Analysis keeps going with the screen off, and progress appears in a Live Activity.
 • Analysis pauses when the device gets warm (and keeps going at full charge). Choose the behavior with “Prioritize charging over background work”.
 • Dropbox backup is now organized into folders by capture month, and continues overnight with the app closed.
 

diff --git a/docs/screenshots/README.md b/docs/screenshots/README.md
@@ -33,12 +33,17 @@ python3 scripts/export_screenshots.py       # xcresult attachments -> named PNGs
 | `settings.jpg` | Settings root (Albums & Search incl. Cloud Sharing) | **auto (safe)** | help/settings |
 | `grid-months.jpg` | Photo grid (month layout with packed date-range headers) | legacy (real photos) | README, help/basics |
 | `ai-albums.jpg` | Home — People (face clusters) + AI albums | legacy (real photos) | README, help/folder-albums |
-| `ai-analysis.jpg` | AI analysis status screen | legacy (real photos) | help/ai-search |
+| `ai-analysis.jpg` | AI analysis status screen | **auto (safe)** | help/ai-search |
 | `cloud.jpg` | Cloud (Dropbox photo grid) | legacy (real photos) | README, help/basics, help/dropbox |
 
-> ⚠ **The four `legacy` captures still contain real photos from the developer's library.**
+> ⚠ **The three remaining `legacy` captures still contain real photos from the developer's library.**
 > They cannot be reproduced by the automated pipeline yet, because they require things the
 > throwaway simulator does not have: **faces** (no faces in the free-license set — and putting
 > real people's faces in public docs needs a separate decision), a **connected Dropbox account**,
-> and a **finished AI analysis pass** (CLIP embedding is skipped on the simulator by design).
+> and a **connected Dropbox account**.
 > Replace them when those become available.
+>
+> `ai-analysis.jpg` **was** in that list and is now automated (2026-10-02): the status screen itself
+> does not need a finished analysis pass — the honest "待機中 / 意味検索 0%" state is exactly what the
+> help page needs to show. The capture step is `05b-ai-analysis` in `ScreenshotCaptureTests`.
+> ⚠ The old image predated ADR-195/207 and still showed a 3-way picker that no longer exists.
